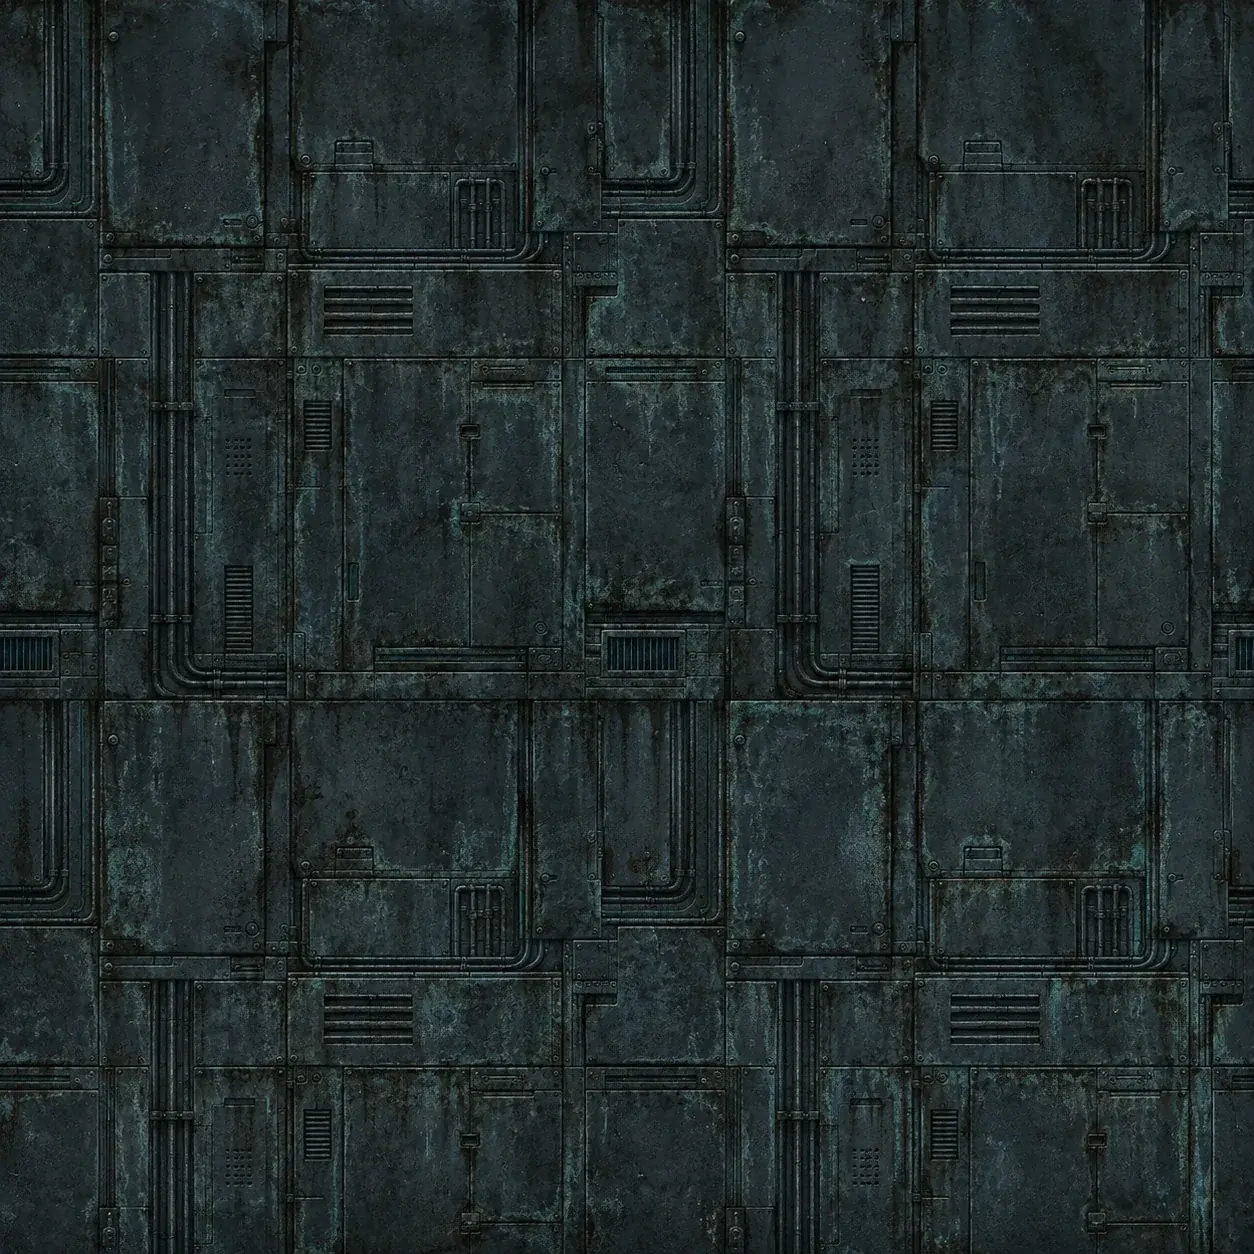
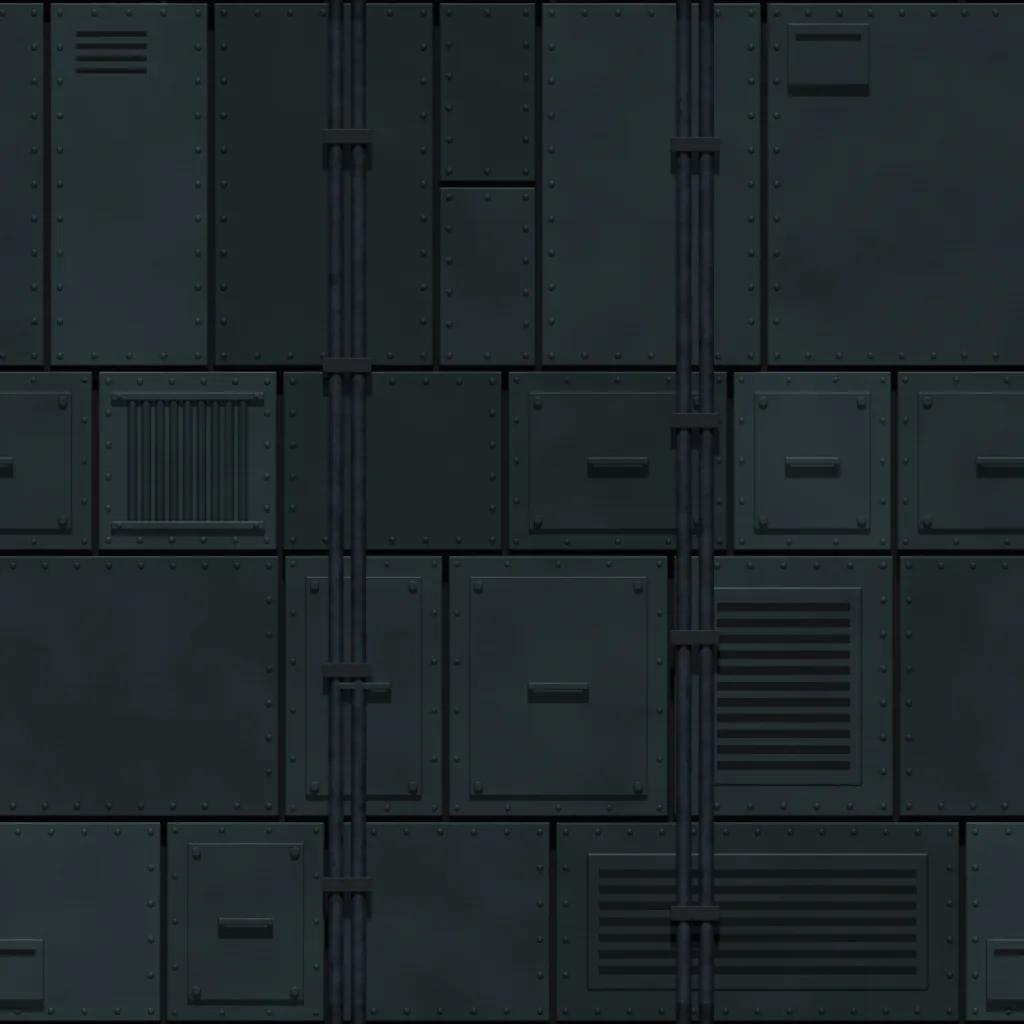
La seconde paroi refaite dans Blender, dans l'acier du mur
Symptôme : wall-a, la paroi que le shader fond avec le mur sur les longs
murs, était la dernière surface de la salle sortie du générateur — un
autre grain, une autre lumière que le mur refait la veille, 207 Ko à
1254² dans une famille de 1024².

Correctif : surfaces.py la compose avec la mise en page et les panneaux
de la tôle de la chaufferie (dispose, plaque, nervures, trappe), sans ce
qui y dit la chaleur (matelas, suie, veilleuse ambre), dans l'acier
brossé du mur un rien plus vert — et plus FOUILLÉE que lui, puisque c'est
son relief qui rompt la répétition : des évents, un petit équipement sur
une plaque nue sur deux (boîtier ou fentes), deux faisceaux de conduites
verticales à colliers qui font le tour du carreau. Premier essai trop
propre et plus sombre que le mur (0,137) : noté en commentaire.

Vérification : prepare.py wall-a — luminance 0,15 (0,17 avant, le mur
0,15), raccord 0,5 / 0,3 (1,0 / 1,7), aucun chaud, 19 Ko ; contrôlé en
2×2. Le shader l'échantillonne en coordonnées normalisées : la taille
passée de 1254 à 1024 ne change pas son échelle. tsc 0 erreur, 1960
tests, construction OK. Pas encore vu en jeu par le concepteur.

diff --git a/tools/images/blender/surfaces.py b/tools/images/blender/surfaces.py
@@ -108,7 +108,7 @@ def carreau(sc, mats, nom, bati, extra=None):
     C = sous(P, nom + '-carreau')
     at = Atelier()
     bati(at, random.Random(len(nom) * 97))
-    at.objets(C, mats, {'panneau': 0.0022, 'rail': 0.0016, 'lame': 0.0006, 'plat': 0.0012}, prefixe=nom)
+    at.objets(C, mats, {'panneau': 0.0022, 'peinture': 0.0022, 'rail': 0.0016, 'lame': 0.0006, 'plat': 0.0012}, prefixe=nom)
     if extra:
         extra(C, mats)
     fond(P, mats)
@@ -460,6 +460,63 @@ def bati_phobe(at, rng):
         at.dome('goutte', x, z, r, 0.0, 0, aplati=0.75)
 
 
+# ------------------------------------------------------- la seconde paroi
+# wall-a : la paroi qui alterne avec le mur sur les longs murs (le shader
+# fond l'une dans l'autre selon un bruit très lent, à l'échelle 520 contre
+# 230). Elle doit donc être PLUS FOUILLÉE que le mur, dans le même acier
+# froid — c'est le relief qui rompt la répétition, pas la couleur. La mise
+# en page et les panneaux sont ceux de la tôle de la chaufferie (dispose,
+# plaque, nervures, trappe), sans ce qui y dit la chaleur : ni matelas, ni
+# suie, ni veilleuse ambre.
+
+def bati_wall_a(at, rng):
+    g = JEU / 2
+    for (x0, x1, z0, z1, sorte) in dispose(rng, [0.2, 0.26, 0.18, 0.36], [0.16, 0.22, 0.3, 0.4]):
+        w, h = x1 - x0, z1 - z0
+        a = (x0 + g, x1 - g, z0 + g, z1 - g)
+        yf = rng.choice((0.0, 0.0, -0.003, -0.006))
+        var = rng.uniform(-1, 1)
+        t = rng.random()
+        if sorte is None and t < 0.2 and w >= 0.16:
+            nervures(at, *a, yf, var)
+        elif sorte is None and t < 0.34 and w >= 0.14 and h >= 0.14:
+            trappe(at, *a, yf, var)
+        elif sorte is None and t < 0.48 and w >= 0.2 and h >= 0.16:
+            plaque(at, *a, yf, var)
+            grille(at, a[0] + 0.03, a[1] - 0.03, a[2] + 0.03, a[3] - 0.03, var)
+        else:
+            plaque(at, *a, yf, var)
+            # une plaque nue sur deux porte un petit équipement : sans eux, la
+            # paroi sortait plus propre et plus sage que le mur (essai 1)
+            if w >= 0.1 and h >= 0.1 and rng.random() < 0.55:
+                petit_equipement(at, *a, yf, var, rng)
+    # deux faisceaux de conduites verticales, qui font le tour du carreau
+    for xc in (rng.uniform(0.05, 0.4), rng.uniform(0.55, 0.9)):
+        for k, dx in enumerate((-0.011, 0.011)):
+            at.tube('tuyau', (xc + dx, -0.016, -0.02), (xc + dx, -0.016, 1.02), 0.0075, seg=16)
+        for i in range(4):
+            z = (i + 0.5) / 4 + rng.uniform(-0.04, 0.04)
+            at.boite('lame', xc - 0.024, xc + 0.024, z - 0.007, z + 0.007, -0.026, -0.006, 0)
+
+
+def petit_equipement(at, x0, x1, z0, z1, yf, var, rng):
+    """un boîtier de raccordement, ou des fentes d'aération, dans un coin de
+    la plaque"""
+    if rng.random() < 0.5:
+        bw, bh = min(0.08, (x1 - x0) * 0.5), min(0.06, (z1 - z0) * 0.5)
+        bx = x0 + 0.02 if rng.random() < 0.5 else x1 - 0.02 - bw
+        bz = z0 + 0.02 if rng.random() < 0.5 else z1 - 0.02 - bh
+        at.boite('peinture', bx, bx + bw, bz, bz + bh, yf - 0.01, yf, var)
+        at.boite('fond', bx + 0.008, bx + bw - 0.008, bz + bh - 0.016, bz + bh - 0.01, yf - 0.0105, yf - 0.009, 0)
+    else:
+        n = rng.randint(3, 5)
+        sx = x0 + 0.025
+        sz = z1 - 0.03
+        for i in range(n):
+            z = sz - i * 0.012
+            at.boite('fond', sx, sx + min(0.07, (x1 - x0) * 0.45), z - 0.0025, z + 0.0025, yf - 0.0005, yf + 0.002, 0)
+
+
 def gouttes_lisses(C, mats):
     """les gouttes en facettes de dix sur six se lisaient comme des clous :
     lissées, elles prennent un reflet rond"""
@@ -506,5 +563,12 @@ def surfaces():
     # son reflet qui la dessine
     mats['goutte'] = mat_simple('goutte', (0x3c, 0x2c, 0x52), rug=0.04)
     carreau(sc, mats, 'phobe', bati_phobe, extra=gouttes_lisses)
+    # la seconde paroi : l'acier du mur, un rien plus vert et plus usé
+    # (l'ancienne mesurait 0,17 de luminance ; à 223032 / 46585a, 0,137 :
+    # plus sombre que le mur, elle s'y lisait en tache)
+    mats_a = dict(mats)
+    mats_a['peinture'] = mat_brosse('paroi-a', (0x27, 0x36, 0x38), (0x50, 0x63, 0x65), 43, brosse=0.08, rouille=(0x2c, 0x32, 0x2c))
+    mats_a['rivet'] = mats_a['panneau'] = mats_a['peinture']
+    carreau(sc, mats_a, 'wall-a', bati_wall_a)
     lumiere_camera(sc)
     sc.cycles.device = 'GPU'

diff --git a/docs/assets-ia.md b/docs/assets-ia.md
@@ -93,6 +93,13 @@ Négatif : négatif commun + `green, emerald, brown background, perspective,
 tilt, off-center, motion blur`
 
 ## 5. Texture mur neutre — `wall.webp` ✗ À REFAIRE
+
+> ✅ **Le mur et la seconde paroi sont dessinés dans Blender** (`tools/images/blender/surfaces.py`) : `wall` le 12/11, `wall-a` le 13/11 —
+> la mise en page de la tôle de la chaufferie dans l'acier froid du mur,
+> nervures, trappes, évents, petits boîtiers, deux faisceaux de conduites
+> verticales ; luminance 0,15 (0,17 avant), raccord 0,5 / 0,3 (1,0 / 1,7),
+> 19 Ko (207), livrée à 1024² comme le reste de la famille. Ce qui suit
+> reste pour mémoire.
 **1024×1024 · PNG · tileable sur les deux axes**
 
 Le mur par défaut montre sa couture : raccord vertical **4,7** (seuil 3,0),
